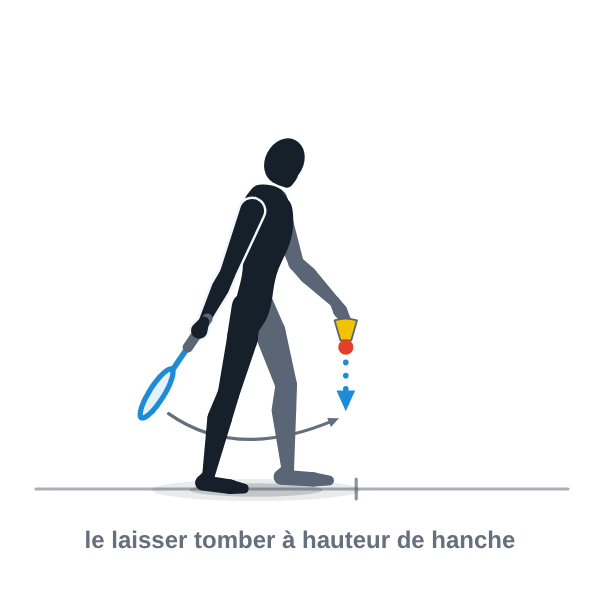
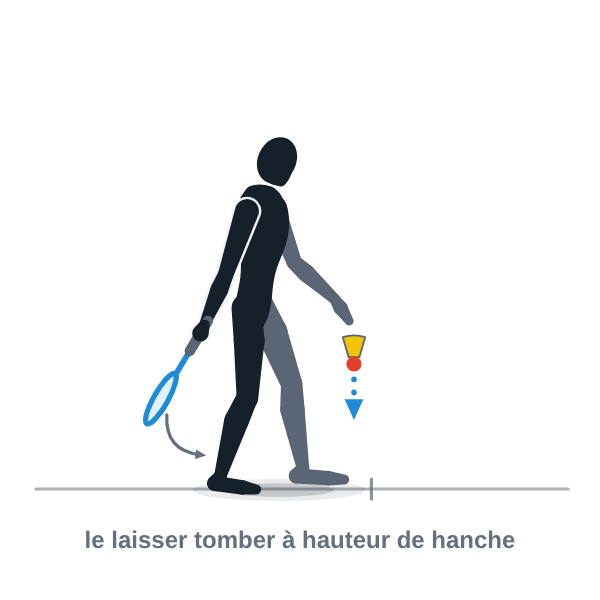
Personengrafiken: Prüfbefunde Welle 3 umgesetzt
G-006: Die Schlagfläche hat Vorrang. Der Schläger hängt steil wie ein
Pendel, die Normale zeigt 22° über der Waagerechten zum Ziel; das
Dossier verlangte mit „30–45° unter der Waagerechten“ und „15–20°
geöffnet“ Unvereinbares und ist korrigiert. Die Kappe liegt vor der
Fläche statt auf dem Rahmen, die Bahn flacht ab, der Schatten verdeckt
die Aufschlaglinie nicht mehr. Das Motiv prüft jetzt selbst, ob der
hintere Ballen stehen bleibt und der Treffpunkt auf dem Fallweg aus
G-005 liegt.

G-005: Gewicht sichtbar hinten, der Speeder mit Luft unter den Fingern,
der Bogenpfeil kreuzt kein Schienbein mehr.

Texte: pl-Caption mit „dłoni uderzającej“, en „contact point below the
hitting hand“, fr-aria flüssiger und „ligne en tirets“, en „forward
from below“. Katalog, Strategie und Bögen nachgezogen.

Claude-Session: https://claude.ai/code/session_013KNt9ps5BEZjHZh3HU8knw

diff --git a/images/grafik-prompts.md b/images/grafik-prompts.md
@@ -57,12 +57,12 @@ A single player from the side hitting a backhand in crossminton, mirrored to the
 **G-005** · `images/G-005.png` · `aufschlag` · Beginner  
 *Aufschlag, Bild 1: der Speeder fällt*  
 A single player from the side, about to serve in crossminton. The non-racket hand releases the speeder at hip height; the speeder is falling. Racket arm prepared low, ready to swing forward from below. One foot clearly on the ground. Calm, prepared stance.
-*Generiert (Welle 3): reine Seitenansicht (leicht zur Betrachterin gedreht), Ziel rechts, unmittelbar nach dem Loslassen. Gewicht hinten, beide Füße flach hinter der Aufschlaglinie (Bodenmarke). Die freie Hand hat den Speeder auf Hüfthöhe vor dem Körper eben losgelassen, er fällt Kappe voran senkrecht (kurzer Fallweg). Der Schlagarm hängt wie ein Pendel nach hinten unten, der Schläger hinter dem Bein auf Kniehöhe — vor dem Schritt liegt nichts. Ein dünner Bogenpfeil zeigt den kommenden Schwung von hinten unten nach vorn.*
+*Generiert (Welle 3): reine Seitenansicht (leicht zur Betrachterin gedreht), Ziel rechts, unmittelbar nach dem Loslassen. Gewicht hinten, beide Füße flach hinter der Aufschlaglinie (Bodenmarke). Die freie Hand hat den Speeder auf Hüfthöhe vor dem Körper eben losgelassen, er fällt Kappe voran senkrecht (kurzer Fallweg). Der Schlagarm hängt wie ein Pendel nach hinten unten, der Schläger hinter dem Bein auf Kniehöhe — vor dem Schritt liegt nichts. Ein kurzer Bogenpfeil hinter dem hinteren Bein deutet den kommenden Schwung von hinten unten nach vorn an.*
 
 **G-006** · `images/G-006.png` · `aufschlag` · Beginner  
 *Aufschlag, Bild 2: Treffpunkt unterhalb der Schlaghand*  
 A single player from the side at the moment of a crossminton serve contact. The racket meets the speeder from below; the entire speeder is clearly below the level of the racket hand at the point of impact. Forward, uninterrupted swing. One foot on the ground.
-*Generiert (Welle 3): dieselbe Kamera und derselbe Boden wie G-005, Treffmoment. Das Gewicht ist vorn, der vordere Fuß steht wie in Bild 1, die hintere Ferse hebt sich. Der Schlagarm ist fast gestreckt nach vorn geschwungen, die Hand auf Hüfthöhe; der Schläger zeigt schräg nach vorn unten, die Fläche leicht geöffnet. Eine gestrichelte Linie auf Höhe der Schlaghand beginnt hinter dem Körper und reicht über den Speeder hinaus — der ganze Speeder liegt darunter, die Kappe an der Bespannung. Eine Spur zeigt den Schwungweg aus Bild 1, die Bahn startet flach und läuft lang aus dem Bild.*
+*Generiert (Welle 3): dieselbe Kamera und derselbe Boden wie G-005, Treffmoment. Das Gewicht ist vorn, der vordere Fuß steht wie in Bild 1, die hintere Ferse hebt sich. Der Schlagarm ist fast gestreckt nach vorn geschwungen, die Hand auf Hüfthöhe; der Schläger hängt steil nach unten, der Kopf knapp vor und unter der Hand, die Fläche leicht geöffnet zum Ziel. Eine gestrichelte Linie auf Höhe der Schlaghand beginnt hinter dem Körper und reicht über den Speeder hinaus — der ganze Speeder liegt darunter, die Kappe vor der Fläche, genau auf dem Fallweg aus Bild 1. Eine Spur zeigt den Schwungweg aus Bild 1, die Bahn startet flach und läuft lang aus dem Bild.*
 
 **G-007** · `images/G-007.png` · `beinarbeit` · Beginner  
 *Beinarbeit, Bild 1: der Split-Step*  

diff --git a/docs/grafik-strategie.md b/docs/grafik-strategie.md
@@ -324,6 +324,11 @@ Die übrigen 35 Grafiken bleiben bei ihren bisherigen Wegen. Ihre fr- und pl-Zwi
    - G-022: beide Knie gebeugt, drei gepunktete Bahnen statt Bogen und Sehne, ein Bruchzeichen vor dem Ziel. G-062: Bruchzeichen für die mittlere Distanz und ein ruhiger Drive statt der Pose des harten Drives. G-012: Speeder frei vom Schläger, Ausholen auf Hüfthöhe.
    - Texte: „drive de coup droit“ und „drive forhendowy“ wie in Labels und Bausteinen, „Speeder“ im Englischen groß.
 
+   **Welle 3** (Aufschlag: G-005, G-006), Bögen in `docs/grafik-strategie/welle3-hell.png` und `welle3-dunkel.png`. Die Prüfung gab beide mit Änderung frei:
+   - **Das Dossier verlangte Unvereinbares.** „Schläger 30–45° unter der Waagerechten“ und „Fläche 15–20° geöffnet zum Ziel“ gehen in der Seitenansicht nicht zusammen: liegt die Normale in der Zielebene, steht der Schaft auf dem Schirm bei 90° minus Öffnungswinkel. Der erste Entwurf drehte darum die Fläche seitlich weg (59° neben dem Ziel, offenes Oval). Die Fläche hat Vorrang: der Schläger hängt jetzt steil wie ein Pendel, die Normale zeigt 22° über der Waagerechten zum Ziel. Das Dossier ist entsprechend korrigiert.
+   - **Eine Sequenz prüft sich selbst.** G-006 vergleicht im Modell, ob der hintere Ballen stehen bleibt und ob der Treffpunkt auf dem Fallweg aus G-005 liegt (±2), und warnt sonst — vorher rutschte der hintere Fuß 9 Einheiten zurück und der Speeder wurde 8 Einheiten vor seinem Fallweg getroffen.
+   - Bild 1 trägt das Gewicht jetzt sichtbar hinten, der Speeder hat Luft unter den Fingern, der Bogenpfeil kreuzt kein Schienbein mehr; in Bild 2 liegt die Kappe vor der Fläche statt auf dem Rahmen, die Bahn flacht ab, der Schatten verdeckt die Aufschlaglinie nicht.
+
    **Wenn der Pilot nicht überzeugt,** gibt es höchstens eine Nachbesserungsrunde. Danach entscheidet die Projektverantwortliche zwischen drei Wegen:
    - Richtung C an denselben neun Motiven, Generator und Gate bleiben dabei nutzbar;
    - Richtung A nur für Ganzfiguren, die Nahaufnahmen bleiben schematisch;
